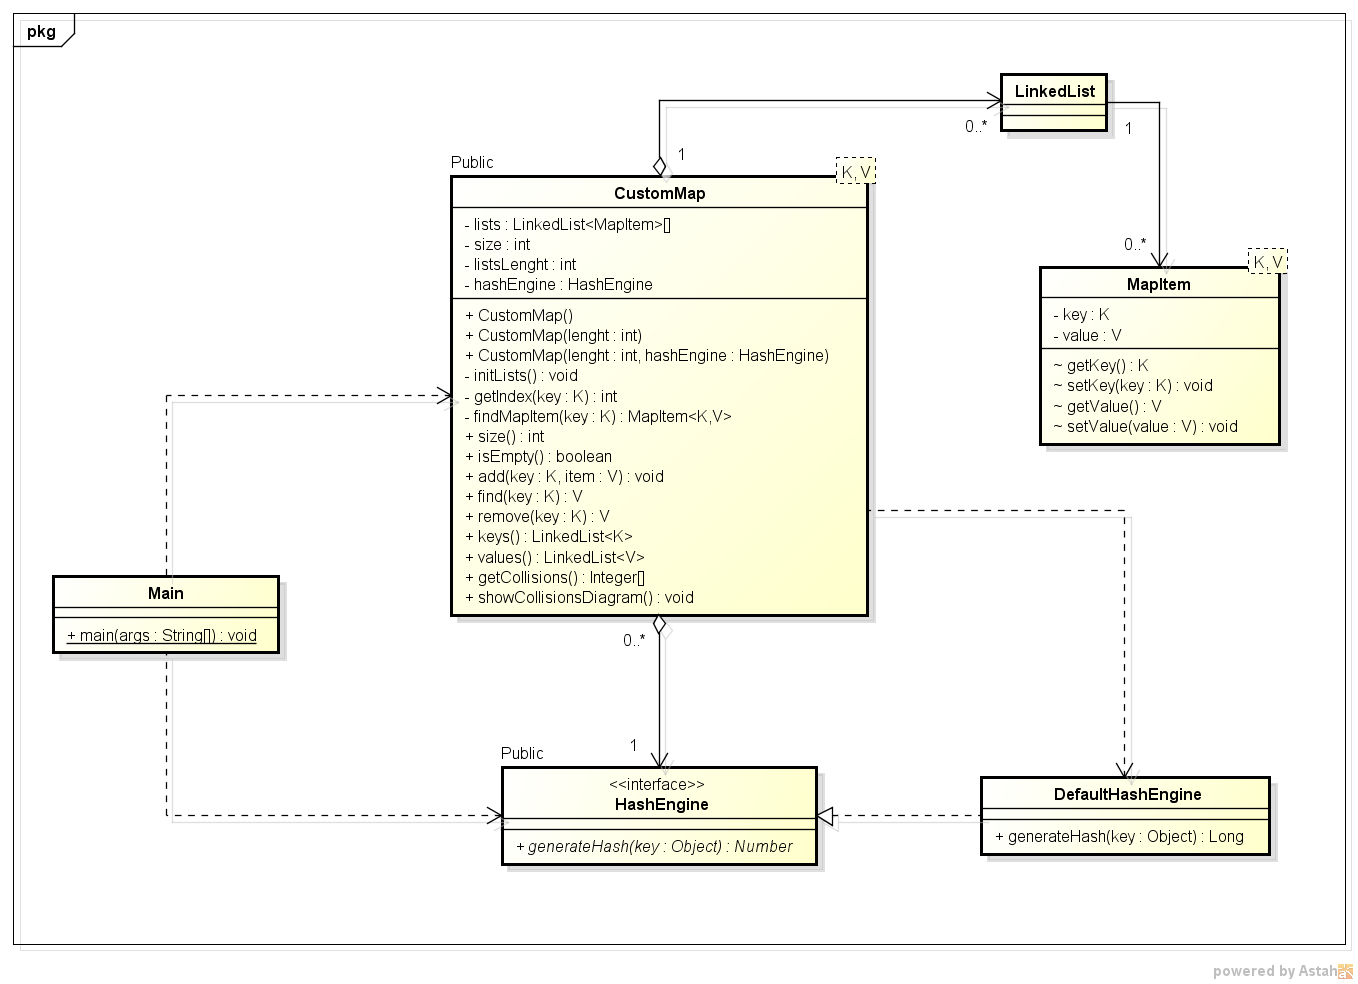
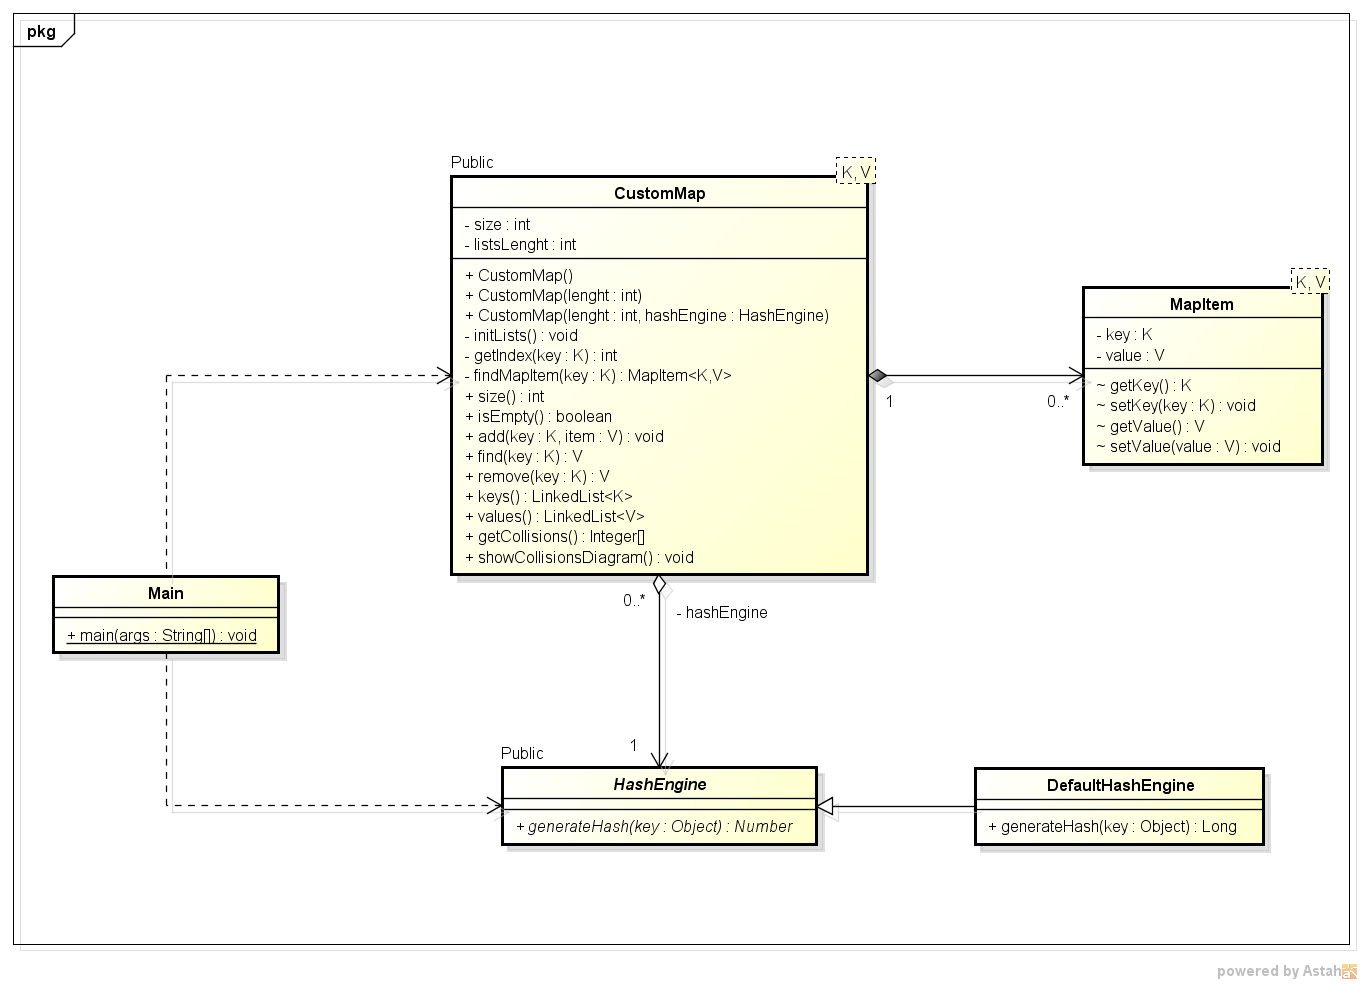
HashEngine: mudando de interface pra classe abstrata

diff --git a/src/main/java/CustomMap/CustomMap.java b/src/main/java/CustomMap/CustomMap.java
@@ -165,7 +165,7 @@ public class CustomMap<K, V> {
      */
     public LinkedList<V> values() {
         LinkedList<MapItem> list;
-        LinkedList<V> valuesList = new LinkedList<V>();
+        LinkedList<V> valuesList = new LinkedList<>();
 
         for (int i = 0; i < this.listsLength; i++) {
             list = this.lists[i];

diff --git a/src/main/java/CustomMap/HashEngine.java b/src/main/java/CustomMap/HashEngine.java
@@ -1,5 +1,5 @@
 package CustomMap;
 
-public interface HashEngine {
-    Number generateHash(Object key);
+public abstract class HashEngine {
+    public abstract Number generateHash(Object key);
 }

diff --git a/src/main/java/CustomMap/DefaultHashEngine.java b/src/main/java/CustomMap/DefaultHashEngine.java
@@ -1,6 +1,6 @@
 package CustomMap;
 
-class DefaultHashEngine implements HashEngine {
+class DefaultHashEngine extends HashEngine {
 
     DefaultHashEngine() {}
 
